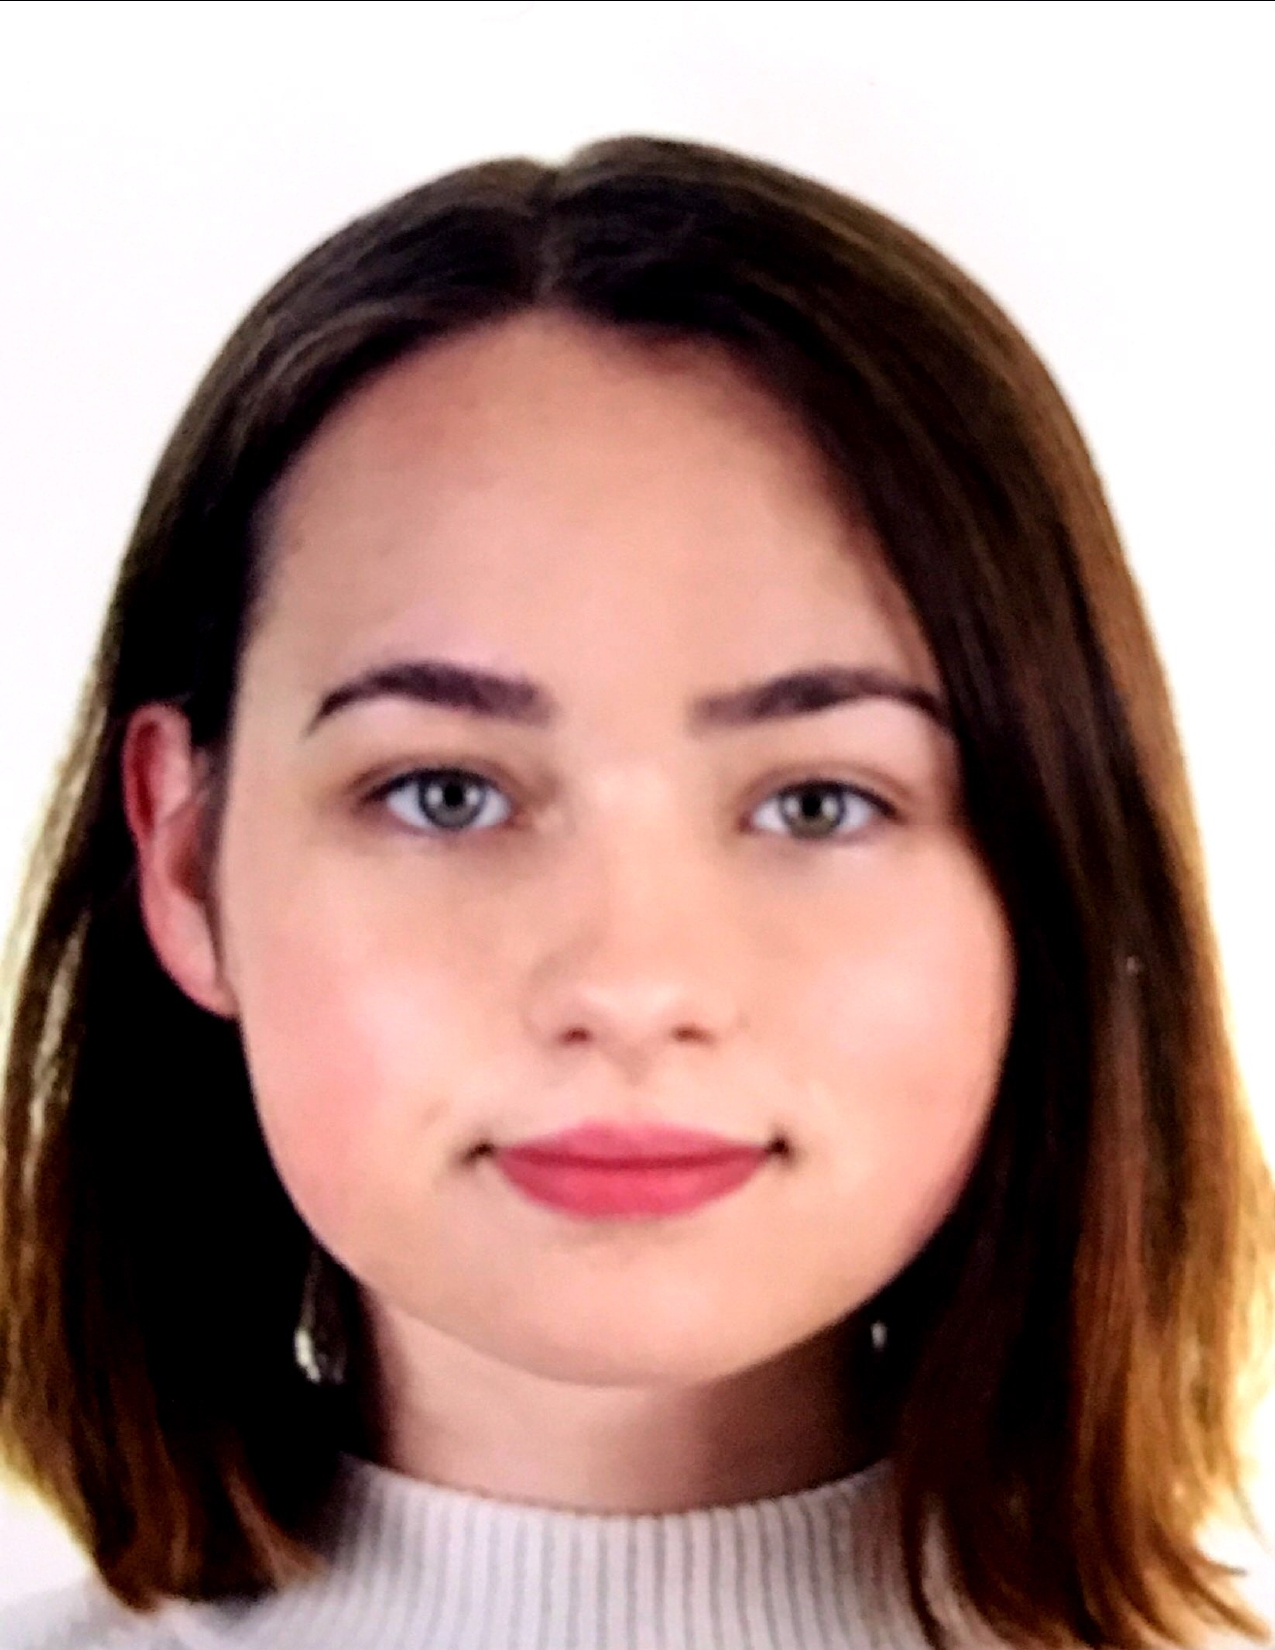
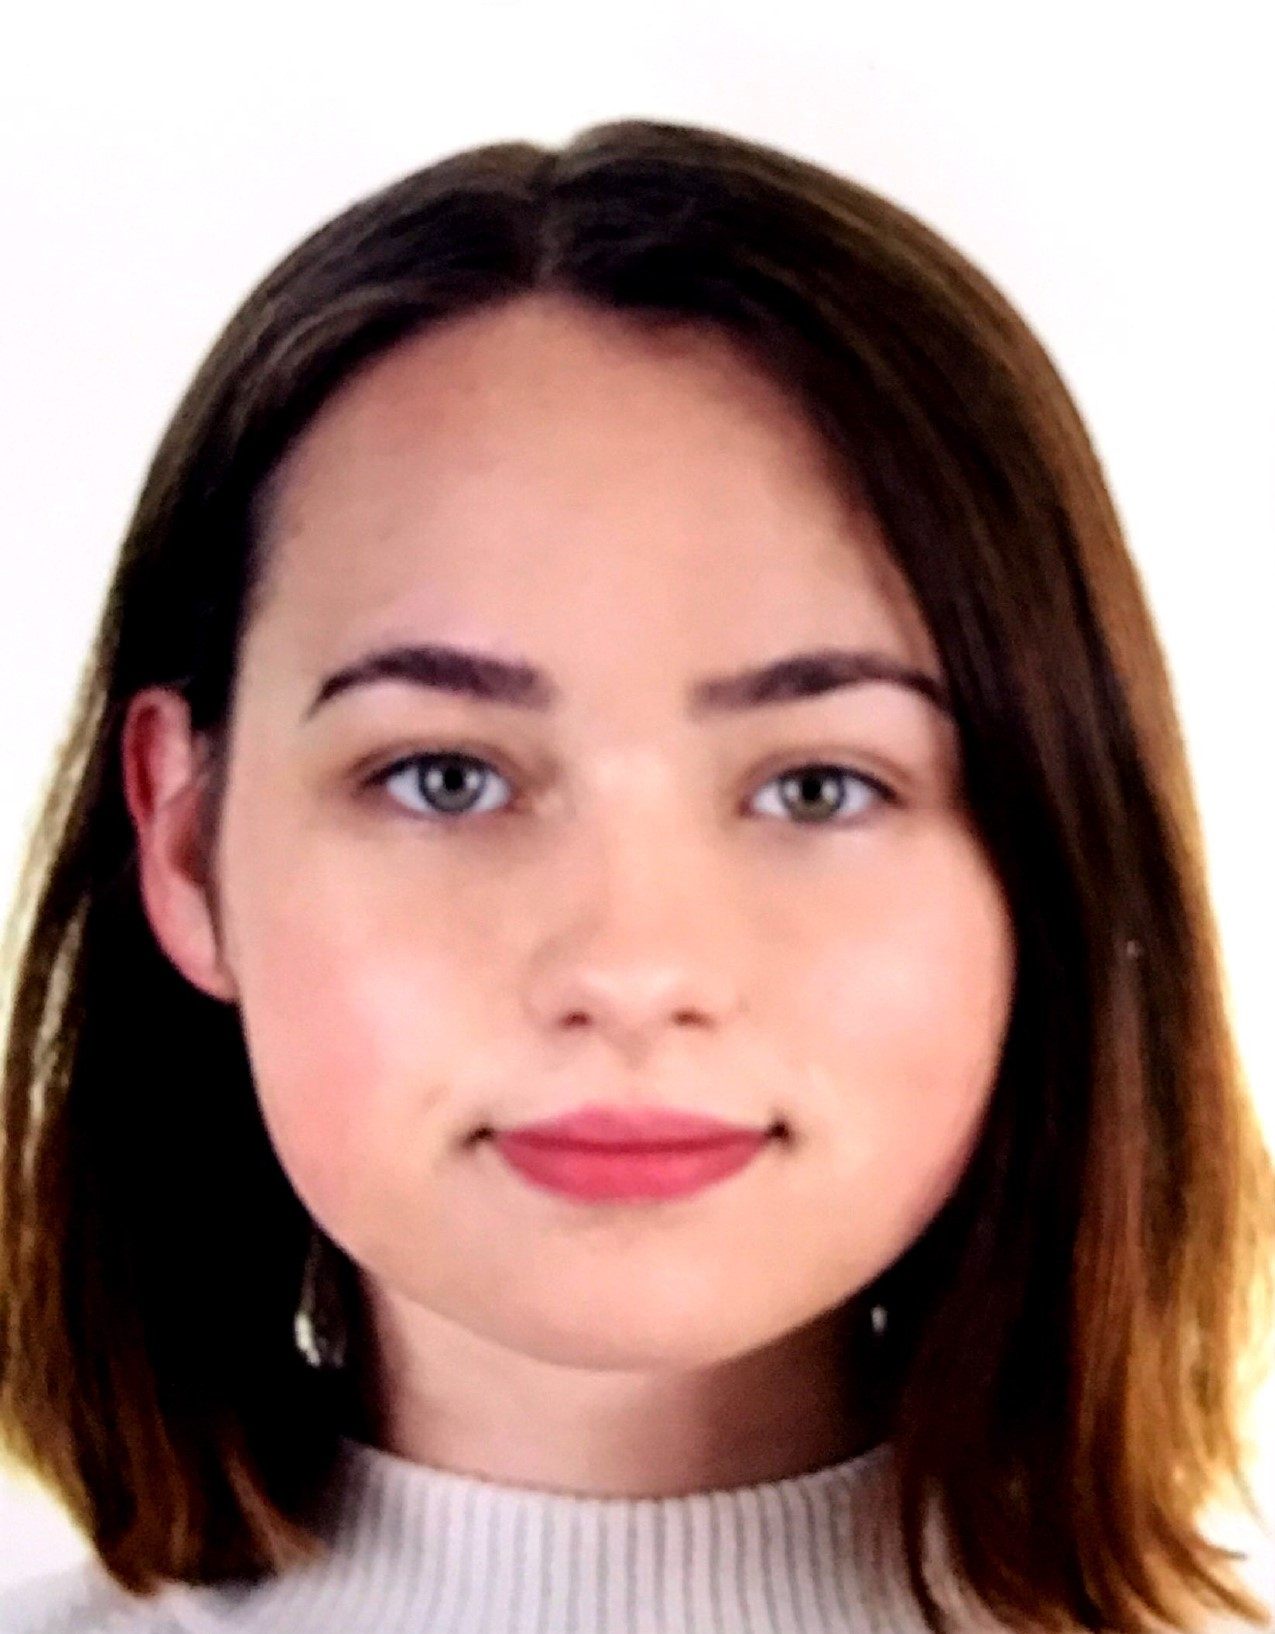
Working on "About me" section

diff --git a/style.css b/style.css
@@ -27,18 +27,28 @@ body {
     font-family: inherit;
 
     margin-left: 10px;
-    flex-grow:1;
+    flex-grow: 1;
 }
 
+.featured { line-height: 1.5;}
 .featured h2 { font-size: 1.3rem;}
-.about-me-intro {margin: 0.5em 0;}
+.featured p { font-size: 0.7rem;}
 
+.about-me-intro { 
+    font-size: 1.25rem;
+    margin: 0.65em 0;
+}
+
+.about-me-subtitle {font-size: 1rem;}
+
+footer h3 { font-size: 1em;}
+
+h3 { text-align: center;}
 footer h4 { 
-    margin-top: 1.5rem;
+    margin-top: 1rem;
     font-weight: 400;
 }
 
-.featured p { font-size: 0.7rem;}
 p { line-height: 1.3;}
 
 span { font-size: 0.8rem;}
@@ -97,7 +107,10 @@ article {margin-bottom: 1em;}
     margin-bottom: 1em;
 }
 
-.about-me-con {
+.about-me {
+    display: flex;
+    flex-direction: column;
+    align-items: center;
     max-width: 90%;
     margin: 1em auto;
 }
@@ -182,11 +195,9 @@ img { width: 100%;}
 }
 
 .my-picture {
-    display: block;
-    margin: 0 auto;
     max-width: 40vw;
     object-fit: cover;
-    border-radius: 40px;
+    border-radius: 30px;
 }
 
 @media(max-width: 610px){
@@ -212,8 +223,20 @@ img { width: 100%;}
 @media (min-width: 610px){
     .nav-bar h1 {font-size: 28px;}
     .nav-bar {padding: 40px;}
-    .featured h2 { font-size: 3rem;}
+
+    .featured h2 { font-size: 3.3rem;}
     .featured p { font-size: 1.3rem;}
+
+    .about-me-intro { font-size: 2.5rem;}
+    .about-me-subtitle {font-size: 1.5rem;}
+
+    footer h3 { font-size: 1.5rem;}
+
+    h3 { 
+        font-size: 1.5rem;
+        grid-column: 1 / -1;
+        margin-bottom: 0.6em;
+    }
 
     span { font-size: 1rem;}
 
@@ -226,9 +249,9 @@ img { width: 100%;}
 
     .container { max-width: 90%;}
 
-    .about-me-con { 
-        display: flex;
+    .about-me { 
         flex-direction: row;
+        gap: 2.75em;
     }
 
     .posts { grid-template-columns: repeat(auto-fit, minmax(400px, 1fr))}
@@ -238,7 +261,7 @@ img { width: 100%;}
     .featured { margin-bottom: 2em;}
 
     .my-picture {
-        max-width: 10vw;
+        max-width: 12vw;
     }
     
 }

diff --git a/about-me.html b/about-me.html
@@ -23,7 +23,7 @@
                     <input type='checkbox' id='check' />
                     <span class="menu">
                         <li><a href="index.html">HOME</a></li>
-                        <li><a href="about-me.html">About me</a></li>
+                        <li><a href="#">Recent posts</a></li>
                         <label for="check" class="close-menu"><i class="fas fa-times"></i></label>
                     </span>
                     <label for="check" class="open-menu"><i class="fas fa-bars"></i></label>
@@ -36,14 +36,15 @@
                 <div class="about-me">
                     <img src="images/me.jpg" class="my-picture" alt="The picture of an astonishing young girl.">
                     <div class="about-me-txt">
-                        <h2 class="about-me-intro">Hello world! My name is Olena and welcome to my learning journal!</h2>
+                        <h2 class="about-me-intro">Hello world!👋 My name is Olena and welcome to my learning journal!</h2>
                         <p class="about-me-subtitle">I study Scrimba's Frontend Developer Career Path.</p>
                     </div>
                 </div>
 
             </section>
 
-            <div class="posts container" id="posts-container">
+            <div class="posts container" id="recent-posts-container">
+                <h3 class="recent-posts">Recent posts</h3>
                 <!-- other posts go here -->
             </div>
 

diff --git a/index.js b/index.js
@@ -20,5 +20,12 @@ function render() {
     document.getElementById("posts-container").innerHTML += postsArray.map(getArticleHtml).join('')
 }
 
+// function getRecentPosts() {
+//     for (let i = 0; i < 4; i++) {
+//         document.getElementById("recent-posts-container").innerHTML += postsArray.map(getArticleHtml).join('')
+//     }
+// }
+
 render()
 getCurrentYear()
+// getRecentPosts()
